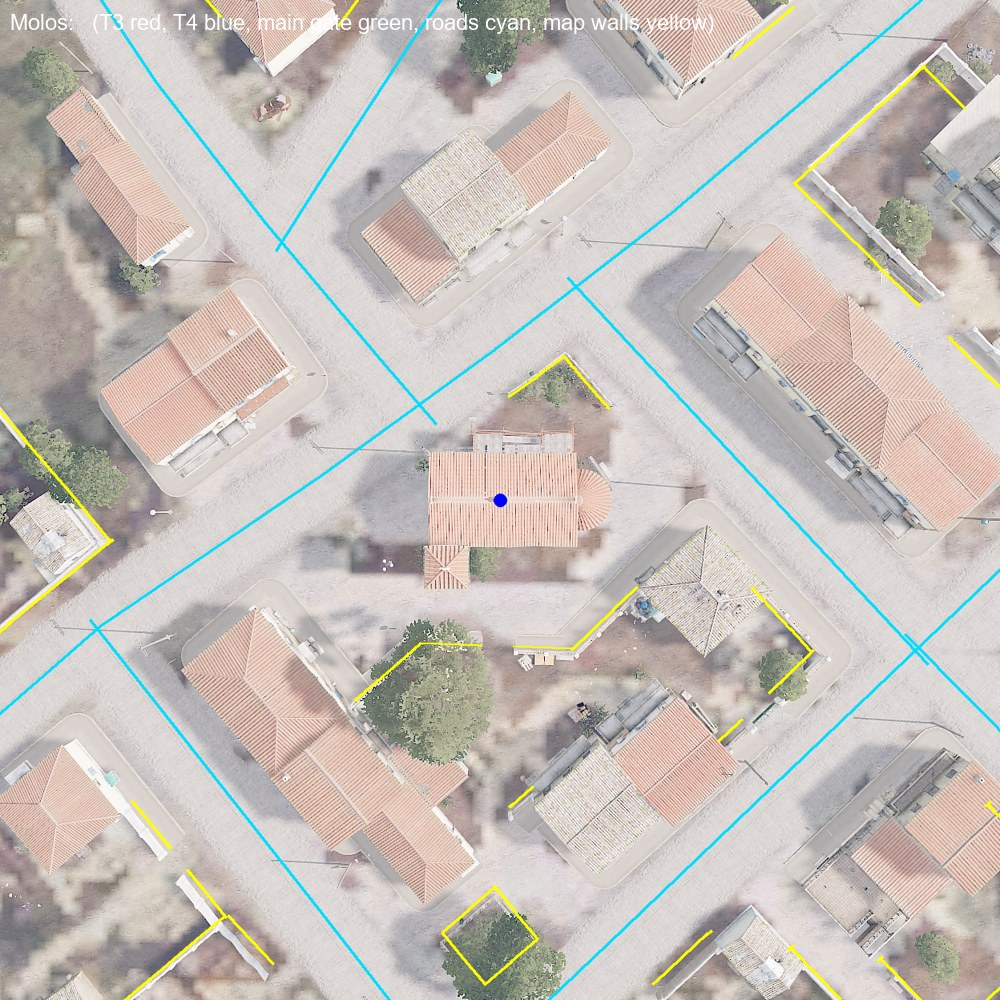
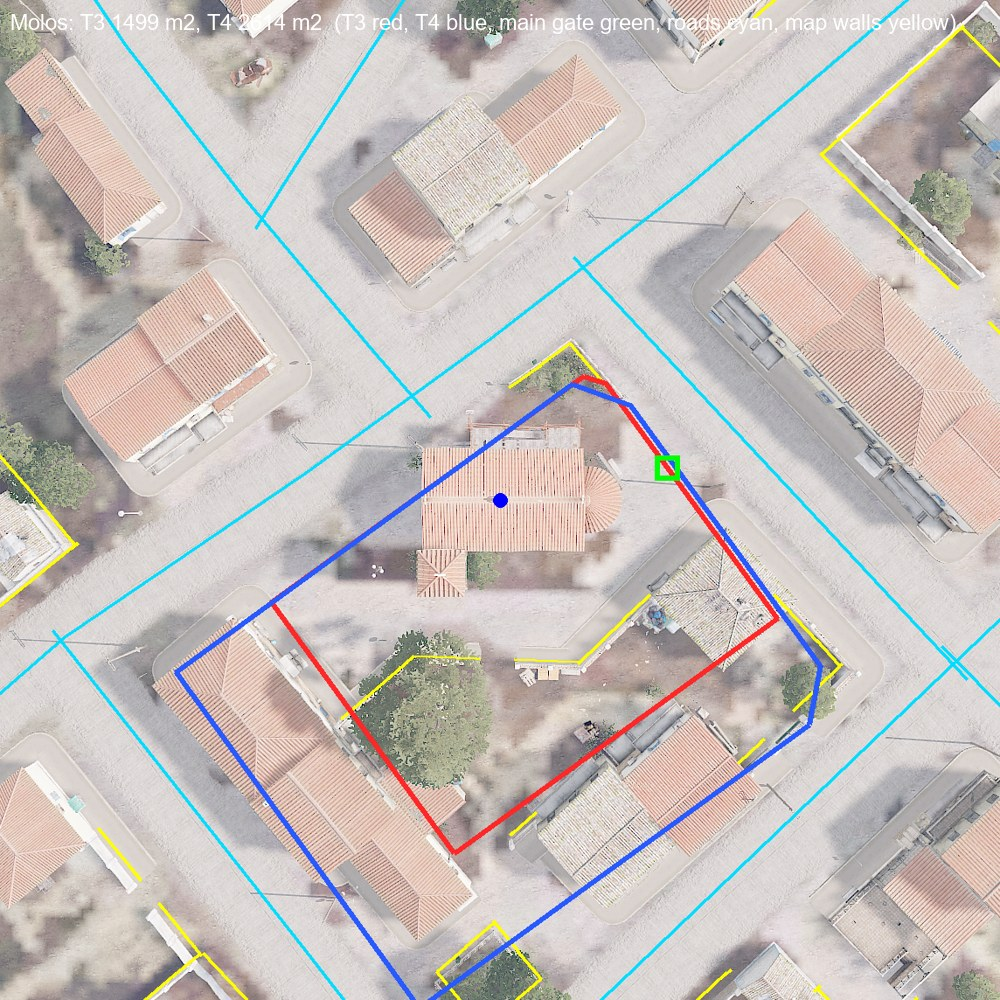
Molos, checkpoint 1: the chapel as the office; draft T1/T2 and T3/T4 areas
Class probe of Land_Chapel_V1_F again, now with its ways in (OTBEXIT, a new
probe line: buildingExit, for a building without door triggers): one, at its
west end. Draft T1 (nothing) and T2 (four sandbags round the door and the apse,
off the road) in drafting/molos/tiers12.py; T3/T4 areas in drafting/molos/areas.py
merged into compounds/Altis.txt for the compound editor.

diff --git a/tools/officegen/drafting/molos/areas.py b/tools/officegen/drafting/molos/areas.py
@@ -1,0 +1,73 @@
+"""Molos draft areas: road-framed rectangles (along the town's street, across it), clipped clear of every road
+(half its width + 1.2 m). python draft.py [--write] [Town ...]"""
+import sys, math
+import os; sys.path.insert(0, os.path.join(os.path.dirname(os.path.abspath(__file__)), '..', '..')); sys.path.insert(0, os.path.dirname(os.path.abspath(__file__)))
+import blocklib as bl, merge_compounds as mc
+from frame import frame
+CLEAR = 1.2
+# town: (street heading, {tier: [(along, across), ...] polygon in the frame})
+SPEC = {
+    # The block the chapel stands in, framed on the street past its north side (the chapel closes that line: the
+    # road clips its north-west corner); the roads on all four sides bound T4 to about 2,950 m2
+    'Molos': (54, {3: [(-27, 5.6), (15.5, 5.6), (17, 3.5), (17, -28.5), (-27, -28.5)],
+                   4: [(-40, 5.6), (14, 5.6), (17.8, 0), (17.8, -35.5), (13, -40), (-40, -40)]}),
+}
+def area(p):
+    return abs(sum(p[i][0] * p[(i + 1) % len(p)][1] - p[(i + 1) % len(p)][0] * p[i][1] for i in range(len(p)))) / 2
+def segd(p, a, z):
+    dx, dy = z[0] - a[0], z[1] - a[1]; l = dx * dx + dy * dy or 1e-9
+    t = max(0, min(1, ((p[0] - a[0]) * dx + (p[1] - a[1]) * dy) / l))
+    return math.dist(p, (a[0] + t * dx, a[1] + t * dy))
+def road_clear(b, poly):
+    """The smallest clearance (m) from the area (edges sampled every 0.5 m) to a road's edge, and where."""
+    worst = (99, None)
+    n = len(poly)
+    for i in range(n):
+        a, z = poly[i], poly[(i + 1) % n]
+        L = math.dist(a, z); k = max(1, int(L / 0.5))
+        for j in range(k + 1):
+            p = (a[0] + (z[0] - a[0]) * j / k, a[1] + (z[1] - a[1]) * j / k)
+            for r in b.roads:
+                c = segd(p, r['beg'][:2], r['end'][:2]) - r['width'] / 2
+                if c < worst[0]:
+                    worst = (c, p)
+    return worst
+# The main gate proposed (frame), on the street side next to the HQ (T3 and T4 share it)
+GATE = {'Molos': (17, -8)}  # on the east street, south of the chapel's apse
+def gate(town):
+    b = bl.load()[town]; return frame(b, SPEC[town][0])[1](*GATE[town])
+# Half-planes in the town's own metres from the office (east, north): keep a*x + b*y >= c
+CLIP = {}
+def clip(poly, a, b, c):
+    out = []
+    n = len(poly)
+    f = lambda p: a * p[0] + b * p[1] - c
+    for i in range(n):
+        p, q = poly[i], poly[(i + 1) % n]
+        if f(p) >= 0: out.append(p)
+        if (f(p) >= 0) != (f(q) >= 0):
+            t = f(p) / (f(p) - f(q)); out.append((p[0] + (q[0] - p[0]) * t, p[1] + (q[1] - p[1]) * t))
+    return out
+def polys(town):
+    b = bl.load()[town]; th, tiers = SPEC[town]
+    to, back = frame(b, th)
+    out = {}
+    for k, p in tiers.items():
+        w = [back(*q) for q in p]
+        loc = [(x - b.pos[0], y - b.pos[1]) for x, y in w]
+        for h in CLIP.get((town, k), []):
+            loc = clip(loc, *h)
+        out[k] = [[round(b.pos[0] + x, 2), round(b.pos[1] + y, 2)] for x, y in loc]
+    return b, out
+if __name__ == '__main__':
+    towns = [a for a in sys.argv[1:] if not a.startswith('--')] or list(SPEC)
+    saved = mc.load_saved('Altis')
+    for town in towns:
+        b, P = polys(town)
+        for k, p in P.items():
+            c, at = road_clear(b, p)
+            to, _ = frame(b, SPEC[town][0])
+            print(f"{town} T{k}: {round(area(p))} m2, {len(p)} corners, road clearance {c:.1f} m" + (f" at frame {[round(v, 1) for v in to(at)]}" if c < CLEAR else ""))
+        saved.setdefault(town, {'tiers': {}})['tiers'].update(P)
+    if '--write' in sys.argv:
+        mc.write_saved('Altis', saved); mc.write_sqf('Altis', saved); print('written')

diff --git a/tools/officegen/drafting/molos/tiers12.py b/tools/officegen/drafting/molos/tiers12.py
@@ -1,0 +1,26 @@
+"""Molos (the user's: the chapel is the office, the occupier's strongpoint): draft T1/T2, light like the other
+bracket-3 towns' (T1 nothing, T2 a few sandbags at the HQ's doors). The chapel has one way in (OTBEXIT: its west end,
+model y 2.9), and the road runs right past that end's north half, so the bags stand south of the door and round the
+building, off the road (blocklib's roads, 1 m or more clear). Model coordinates (the chapel faces north, dir 0)."""
+import os
+import sys
+sys.path.insert(0, os.path.join(os.path.dirname(os.path.abspath(__file__)), '..', '..'))  # tools/officegen
+import merge_layouts as ml, blocklib as bl
+b = bl.load()['Molos']
+O = b.pos
+# (class, model x, y, facing x, y)
+T2 = [("Land_BagFence_Short_F", -13.8, -0.5, -1, 0),     # beside the door, facing the street west
+      ("Land_BagFence_Long_F", -15.5, -3.2, -0.94, -0.34),  # the corner in front of the door
+      ("Land_BagFence_Short_F", -9.5, -6.8, 0, -1),      # the south side by the porch
+      ("Land_BagFence_Short_F", 14.2, 0.0, 1, 0)]        # behind the apse, facing east
+towns = ml.load_saved('Altis')
+t = towns['Molos']
+items = []
+for cls, x, y, fx, fy in T2:
+    w = (O[0] + x, O[1] + y)
+    items.append(["object", cls, f"[{w[0]:.3f},{w[1]:.3f},{b.ground(*w):.3f}]", f"[[{fx:.4f},{fy:.4f},0.0000],[0.0000,0.0000,1.0000]]", "ground"])
+t['tiers'][1] = []
+t['tiers'][2] = items
+ml.write_saved('Altis', towns)
+ml.write_sqf('Altis', towns)
+print("Molos T1: nothing; T2:", len(items), "sandbags")

diff --git a/tools/officegen/drafting/molos/frame.py b/tools/officegen/drafting/molos/frame.py
@@ -1,0 +1,21 @@
+"""Road-framed areas: python frame.py Town theta  -> roads in the frame (along, across) near the HQ"""
+import sys, math
+import os; sys.path.insert(0, os.path.join(os.path.dirname(os.path.abspath(__file__)), '..', '..'))
+import blocklib as bl
+def frame(b, th):
+    u = (math.sin(math.radians(th)), math.cos(math.radians(th))); n = (-u[1], u[0])
+    O = b.pos
+    to = lambda p: ((p[0]-O[0])*u[0]+(p[1]-O[1])*u[1], (p[0]-O[0])*n[0]+(p[1]-O[1])*n[1])
+    back = lambda a, c: [round(O[0]+u[0]*a+n[0]*c, 2), round(O[1]+u[1]*a+n[1]*c, 2)]
+    return to, back
+if __name__ == '__main__':
+    b = bl.load()[sys.argv[1]]; th = float(sys.argv[2])
+    to, back = frame(b, th)
+    for r in b.roads:
+        A, Z = to(r['beg']), to(r['end'])
+        if min(abs(A[0]), abs(Z[0])) < 80 and min(abs(A[1]), abs(Z[1])) < 80:
+            print(r['width'], [round(v,1) for v in A], [round(v,1) for v in Z])
+    for t in b.buildings:
+        a = to(t.pos)
+        if abs(a[0]) < 60 and abs(a[1]) < 60:
+            print('B', t.model[:30], [round(v,1) for v in a])
